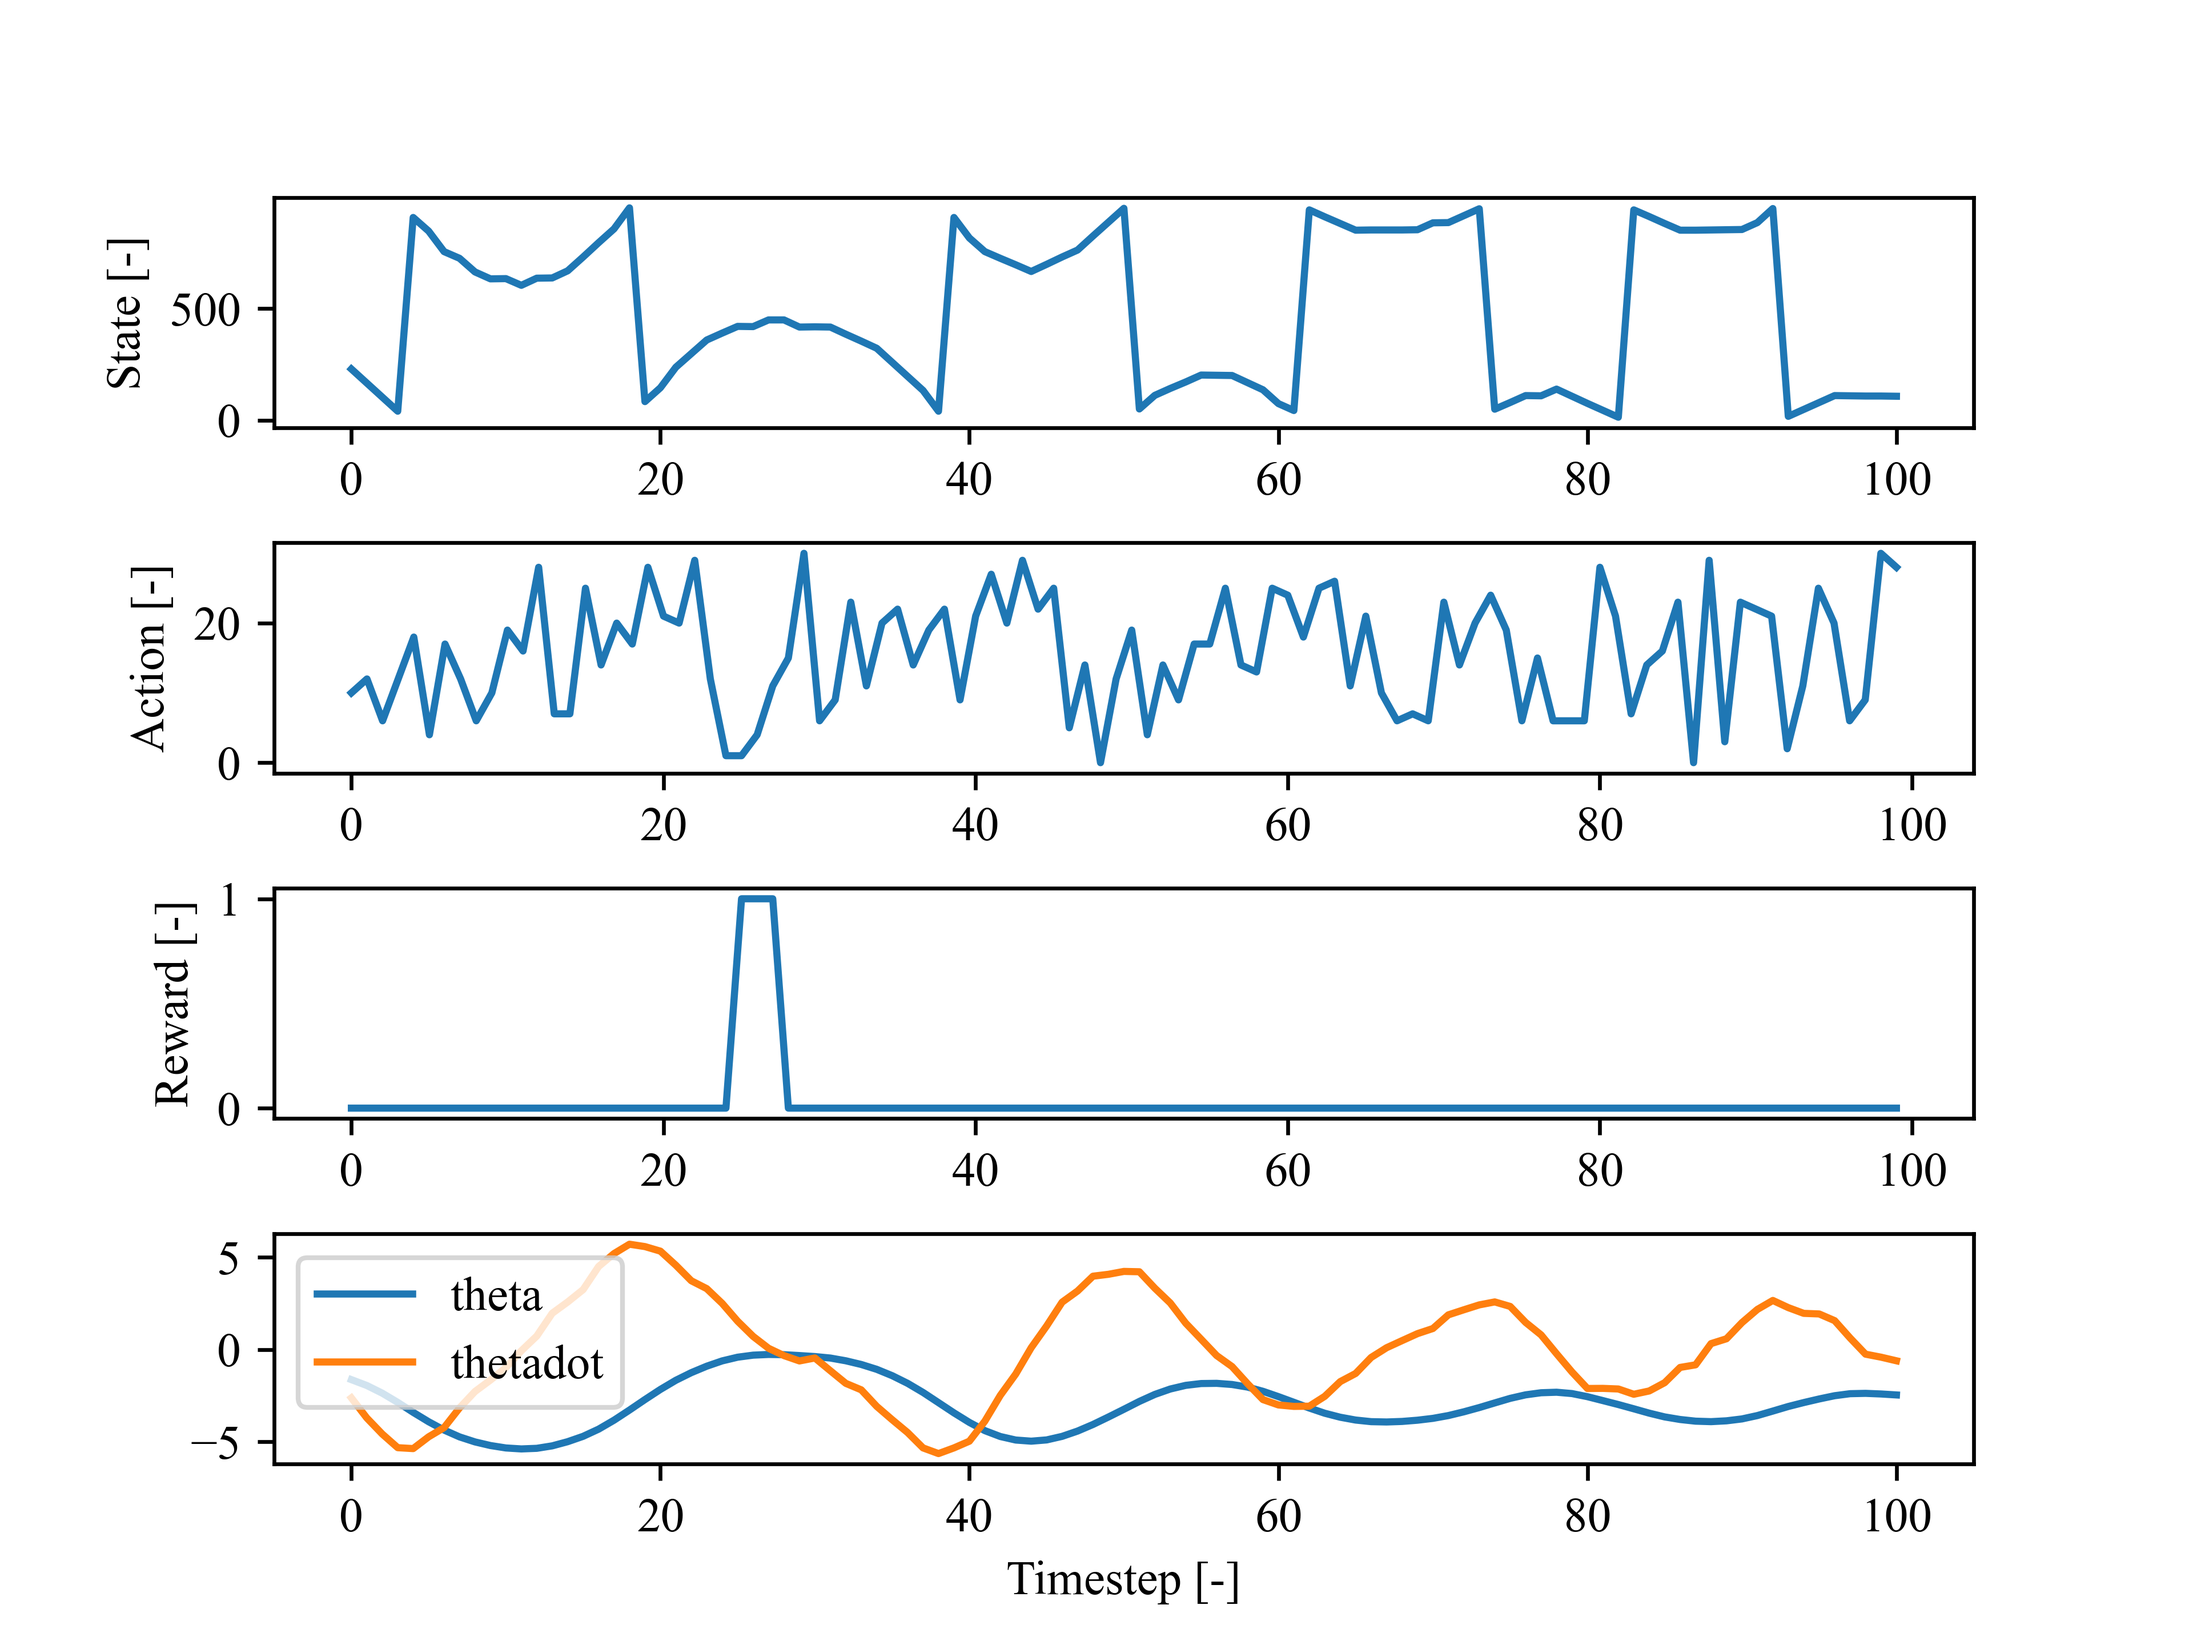
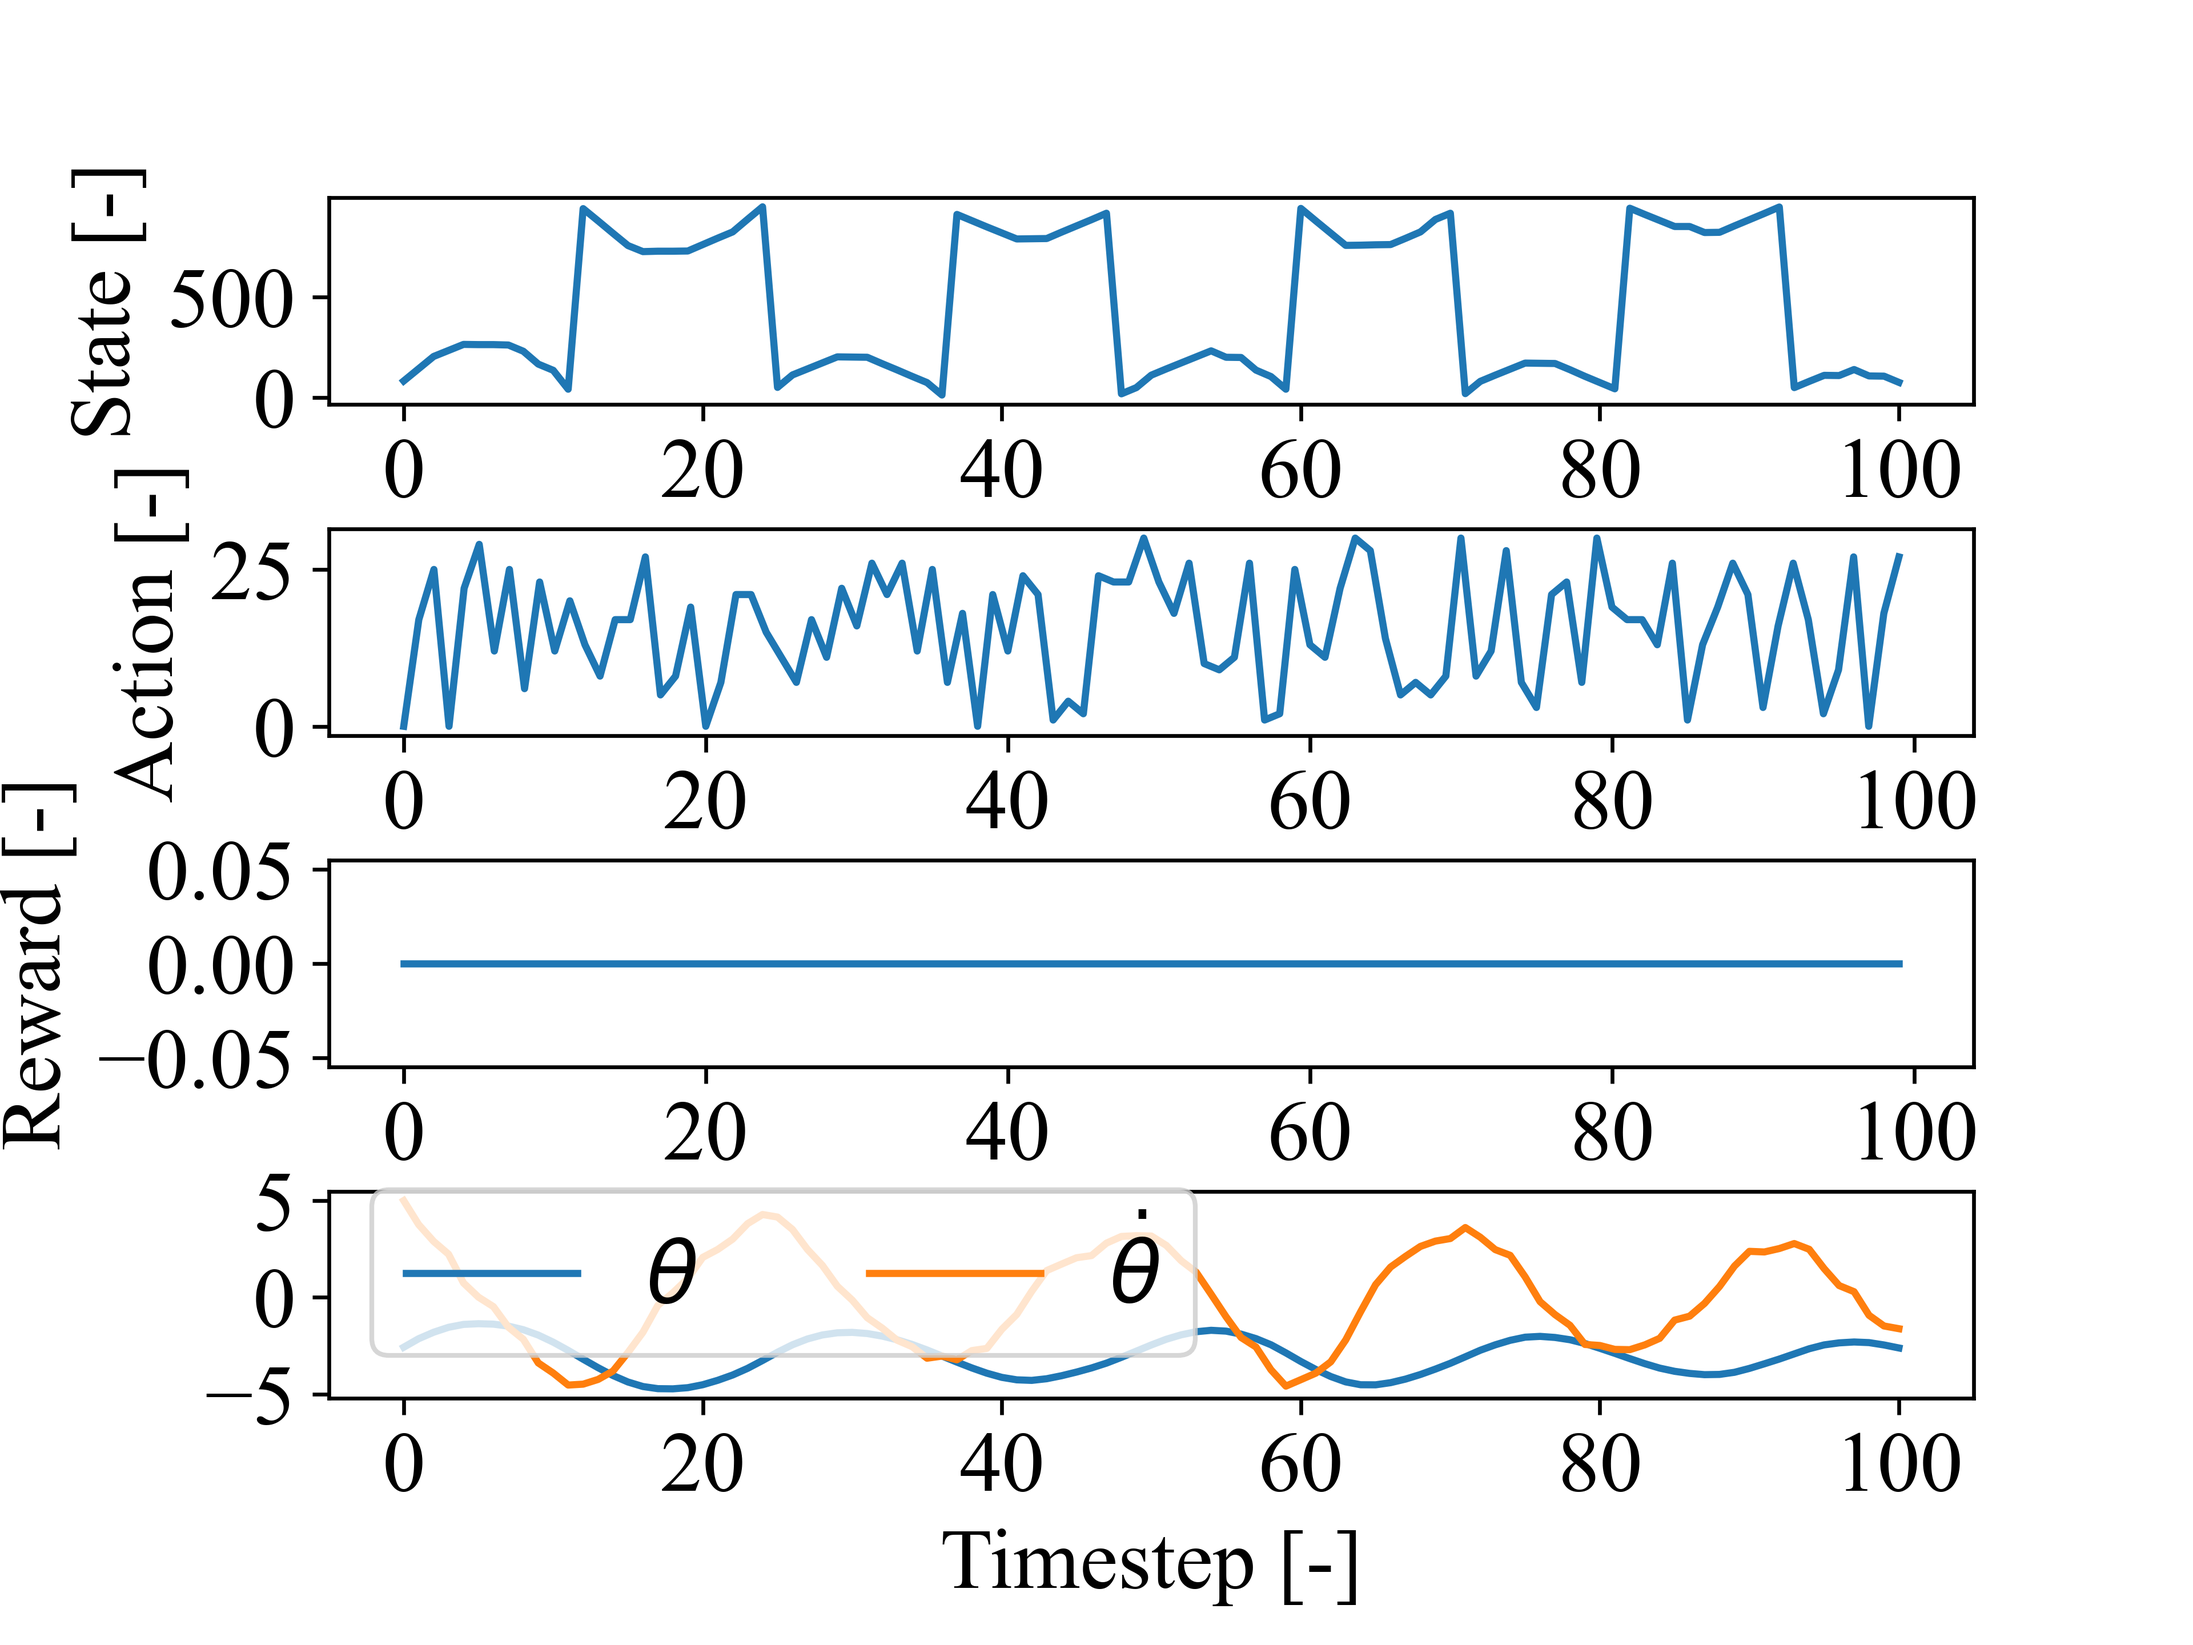
feat: policy plot added with font size

diff --git a/utils/plot.py b/utils/plot.py
@@ -83,6 +83,7 @@ def plot_gridworld_policy(
         if isinstance(model, Sarsa)
         else "q_learning"
     )
+    directory: str = "gridworld" if isinstance(model.env, GridWorld) else "pendulum"
     policy = model.policy
     V = model.V
     # Plot state-value function
@@ -96,22 +97,22 @@ def plot_gridworld_policy(
     axs[1].set_xlabel("State")
     axs[1].set_ylabel("Action")
     axs[1].set_title("Policy")
-    plt.savefig("figures/gridworld/policy_statevalue_{}.png".format(tag), dpi=600)
+    plt.savefig("figures/{}/policy_statevalue_{}.png".format(directory, tag), dpi=600)
 
 
-def plot_learning_curve(model: Sarsa | QLearning, convolve_value:int):
+def plot_learning_curve(model: Sarsa | QLearning, convolve_value: int):
     directory: str = "gridworld" if isinstance(model.env, GridWorld) else "pendulum"
     title: str = "SARSA" if isinstance(model, Sarsa) else "Q-learning"
 
     fig, ax = plt.subplots()
     ax.plot(
-            np.convolve(
-                model.returns,
-                np.ones(convolve_value) / convolve_value,
-                mode="valid",
-            ),
-            label=r"$\alpha$={}, $\epsilon$={}".format(model.alpha, model.eps),
-        )
+        np.convolve(
+            model.returns,
+            np.ones(convolve_value) / convolve_value,
+            mode="valid",
+        ),
+        label=r"$\alpha$={}, $\epsilon$={}".format(model.alpha, model.eps),
+    )
     ax.set_xlabel("Episode [-]")
     ax.set_ylabel("Return [-]")
     ax.grid(True)
@@ -158,7 +159,7 @@ def plot_pendulum_trajectory(model: Sarsa | QLearning) -> None:
     # Plot data and save to png file
     title: str = "SARSA" if isinstance(model, Sarsa) else "Q-learning"
     fig, ax = plt.subplots(4, 1)
-    fig.subplots_adjust(hspace=0.5, wspace=0.3)
+    fig.subplots_adjust(hspace=0.6, wspace=0.4)
     ax[0].plot(t, s, label="s")
     ax[0].set_ylabel("State [-]")
     ax[1].plot(t[:-1], a, label="a")
@@ -167,7 +168,7 @@ def plot_pendulum_trajectory(model: Sarsa | QLearning) -> None:
     ax[2].set_ylabel("Reward [-]")
     ax[3].plot(log["t"], log["theta"])
     ax[3].plot(log["t"], log["thetadot"])
-    ax[3].legend(["theta", "thetadot"])
+    ax[3].legend([r"$\theta$", r"$\dot{\theta}$"], ncol=2)
     ax[3].set_xlabel("Timestep [-]")
     plt.savefig(
         "figures/pendulum/pendulum_trajectory_{}.png".format(tag(model)), dpi=600

diff --git a/main_pend_q.py b/main_pend_q.py
@@ -2,19 +2,22 @@ from matplotlib import pyplot as plt
 from algorithms.q_learning import QLearning
 from discrete_pendulum import Pendulum
 from utils.plot import (
+    plot_gridworld_policy,
     plot_learning_curve,
     plot_pendulum_trajectory,
 )
 
 # Gird World
 plt.rcParams["font.family"] = "Times New Roman"
-
+plt.rcParams["font.size"] = 18
+plt.rcParams["figure.subplot.bottom"] = 0.15
+plt.rcParams["figure.subplot.left"] = 0.18
 env = Pendulum()
 
 num_episodes: int = 200
-alphas = [0.25, 0.5, 0.75]
 
 q = QLearning(env)
 q.train(num_episodes)
 plot_pendulum_trajectory(q)
-plot_learning_curve(q,5)
+plot_learning_curve(q, 5)
+plot_gridworld_policy(q)

diff --git a/main_pend_sarsa.py b/main_pend_sarsa.py
@@ -3,12 +3,15 @@ from algorithms.sarsa import Sarsa
 from algorithms.q_learning import QLearning
 from discrete_pendulum import Pendulum
 from utils.plot import (
+    plot_gridworld_policy,
     plot_learning_curve,
     plot_pendulum_trajectory,
 )
 
 plt.rcParams["font.family"] = "Times New Roman"
-
+plt.rcParams["font.size"] = 18
+plt.rcParams["figure.subplot.bottom"] = 0.15
+plt.rcParams["figure.subplot.left"] = 0.15
 # Gird World
 env = Pendulum()
 
@@ -17,3 +20,4 @@ sarsa = Sarsa(env)
 sarsa.train(num_episodes)
 plot_pendulum_trajectory(sarsa)
 plot_learning_curve(sarsa, 5)
+plot_gridworld_policy(sarsa)

diff --git a/main_grid_sarsa.py b/main_grid_sarsa.py
@@ -9,10 +9,14 @@ from utils.plot import (
 
 env = GridWorld()
 plt.rcParams["font.family"] = "Times New Roman"
+plt.rcParams["font.size"] = 18
+plt.rcParams["figure.subplot.bottom"] = 0.15
+plt.rcParams["figure.subplot.left"] = 0.15
+
 
 num_episodes: int = 5000
 sarsa = Sarsa(env)
 sarsa.train(num_episodes)
 plot_gridworld_trajectory(sarsa)
 plot_gridworld_policy(sarsa)
-plot_learning_curve(sarsa, True)
+plot_learning_curve(sarsa, 100)

diff --git a/main_grid_q.py b/main_grid_q.py
@@ -8,7 +8,8 @@ from utils.plot import (
 )
 
 plt.rcParams["font.family"] = "Times New Roman"
-
+plt.rcParams["font.size"] = 18
+plt.rcParams["figure.subplot.bottom"] = 0.15
 # Gird World
 env = GridWorld()
 
@@ -18,4 +19,4 @@ q = QLearning(env)
 q.train(num_episodes)
 plot_gridworld_trajectory(q)
 plot_gridworld_policy(q)
-plot_learning_curve(q, True)
+plot_learning_curve(q, 100)

diff --git a/main_grid_vi.py b/main_grid_vi.py
@@ -7,7 +7,8 @@ from utils.plot import (
 )
 
 plt.rcParams["font.family"] = "Times New Roman"
-
+plt.rcParams["font.size"] = 18
+plt.rcParams["figure.subplot.bottom"] = 0.15
 # Gird World
 env = GridWorld()
 

diff --git a/main_grid_pi.py b/main_grid_pi.py
@@ -7,6 +7,8 @@ from utils.plot import (
 )
 
 plt.rcParams["font.family"] = "Times New Roman"
+plt.rcParams["font.size"] = 18
+plt.rcParams["figure.subplot.bottom"] = 0.15
 # Gird World
 env = GridWorld()
 
